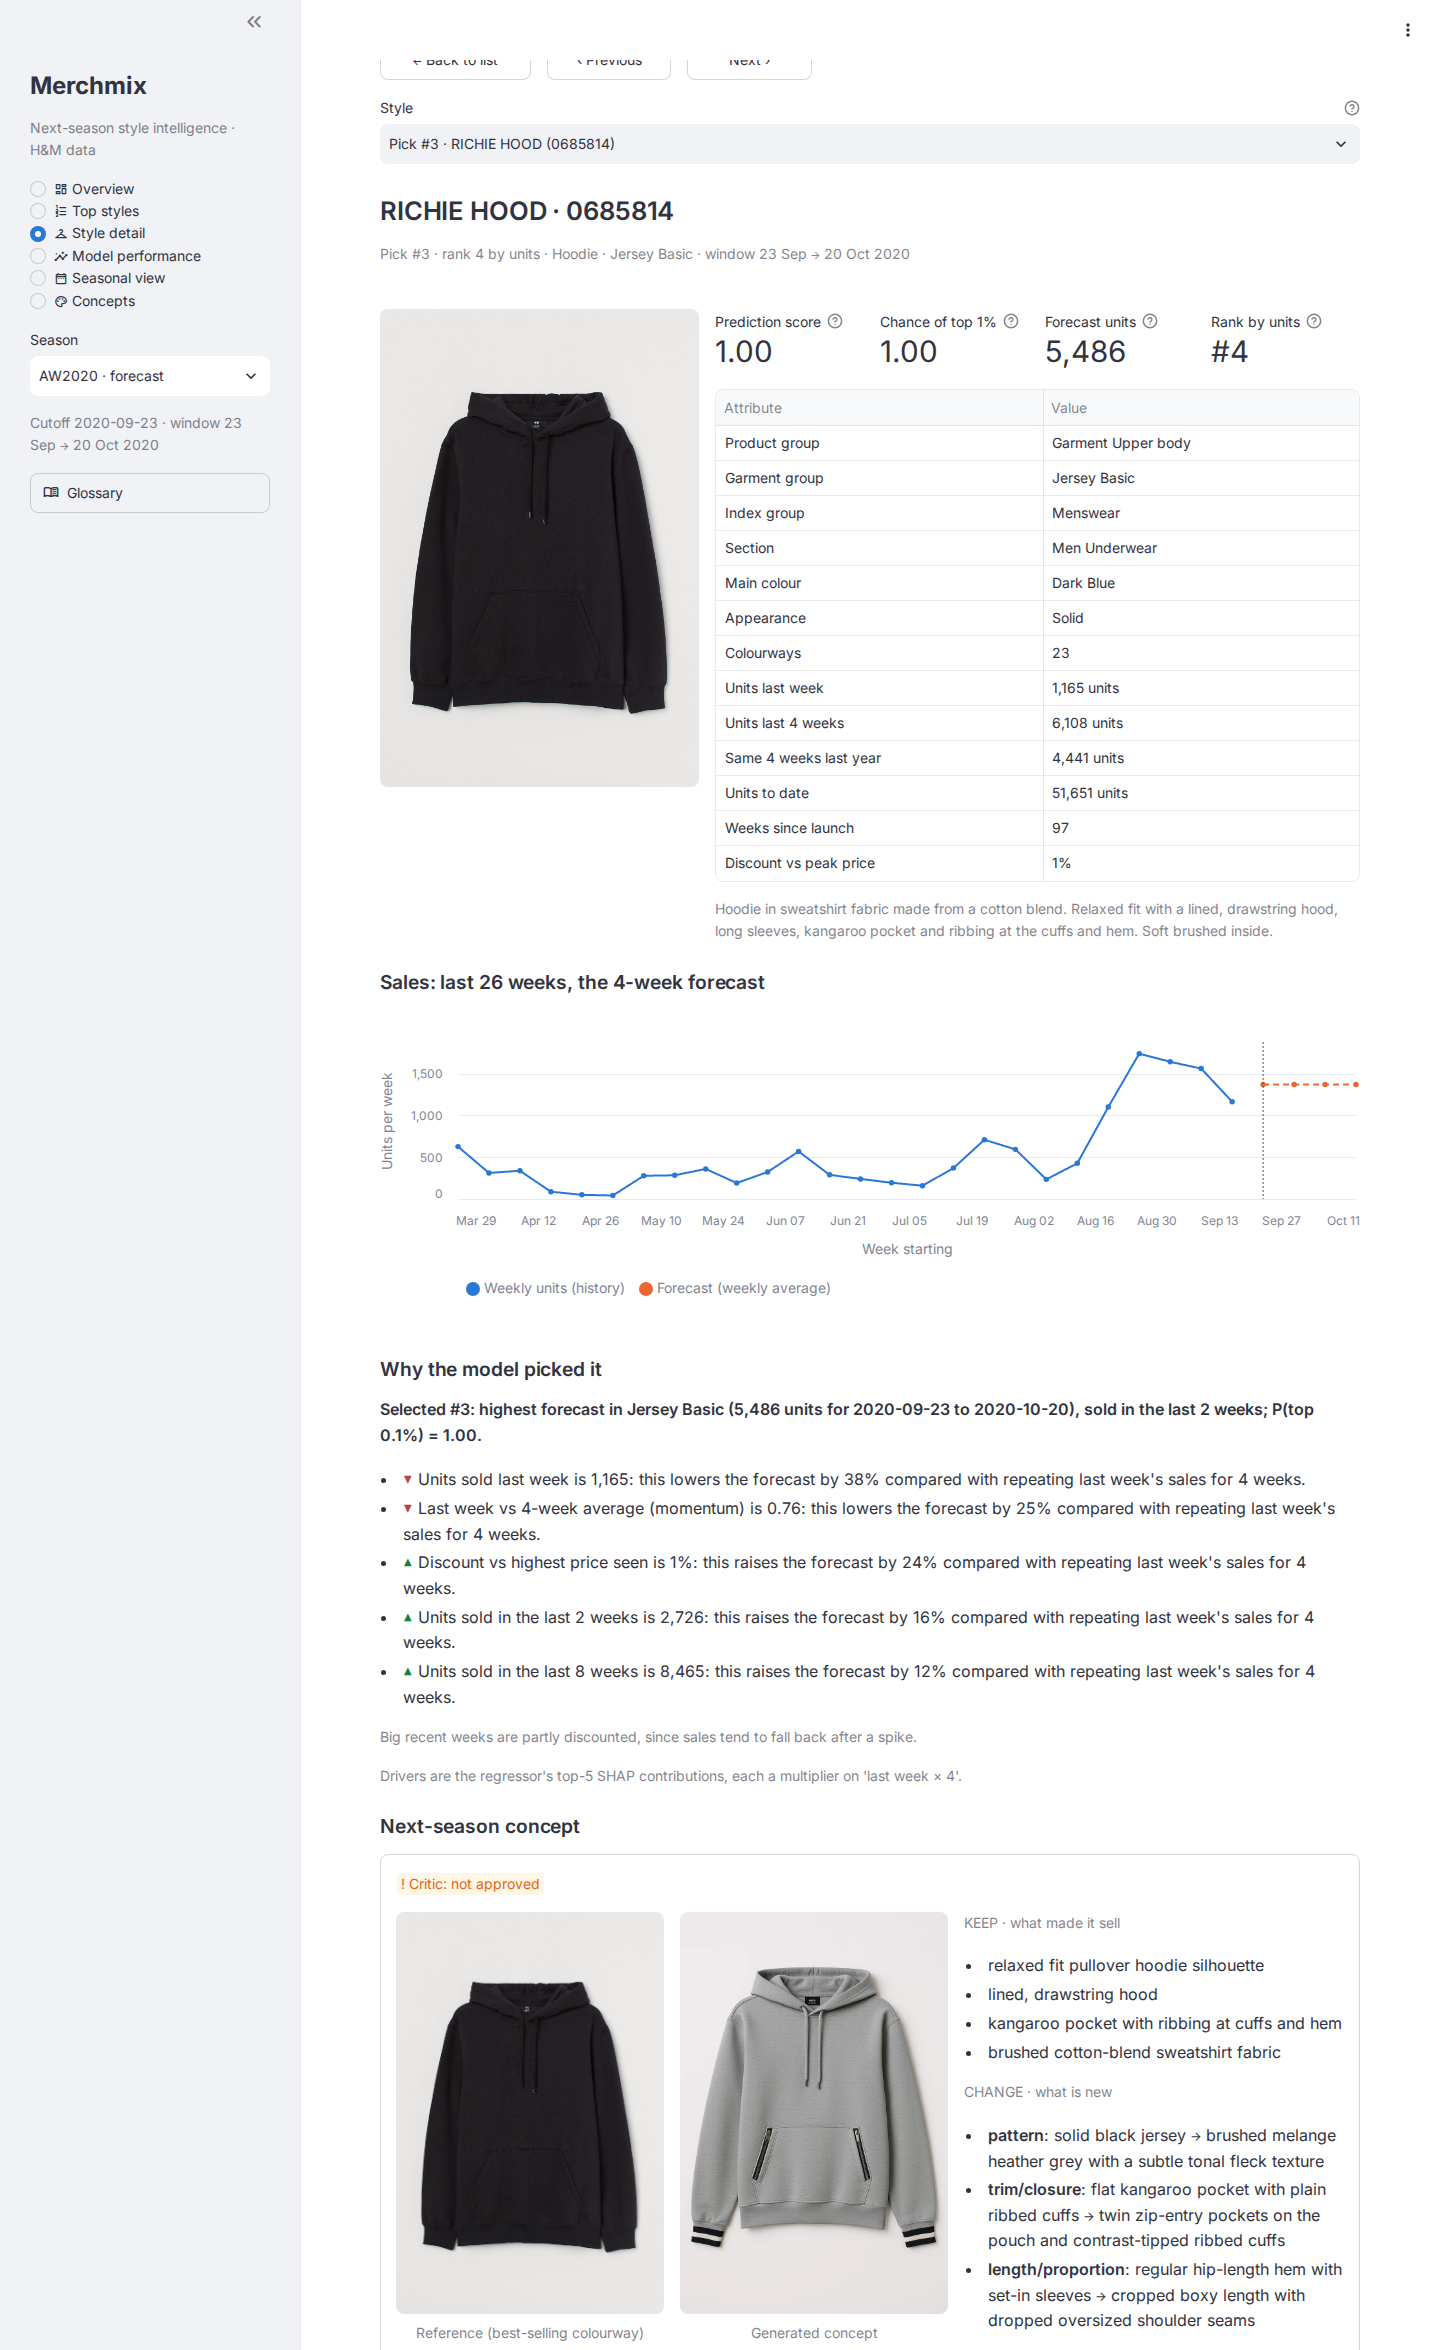
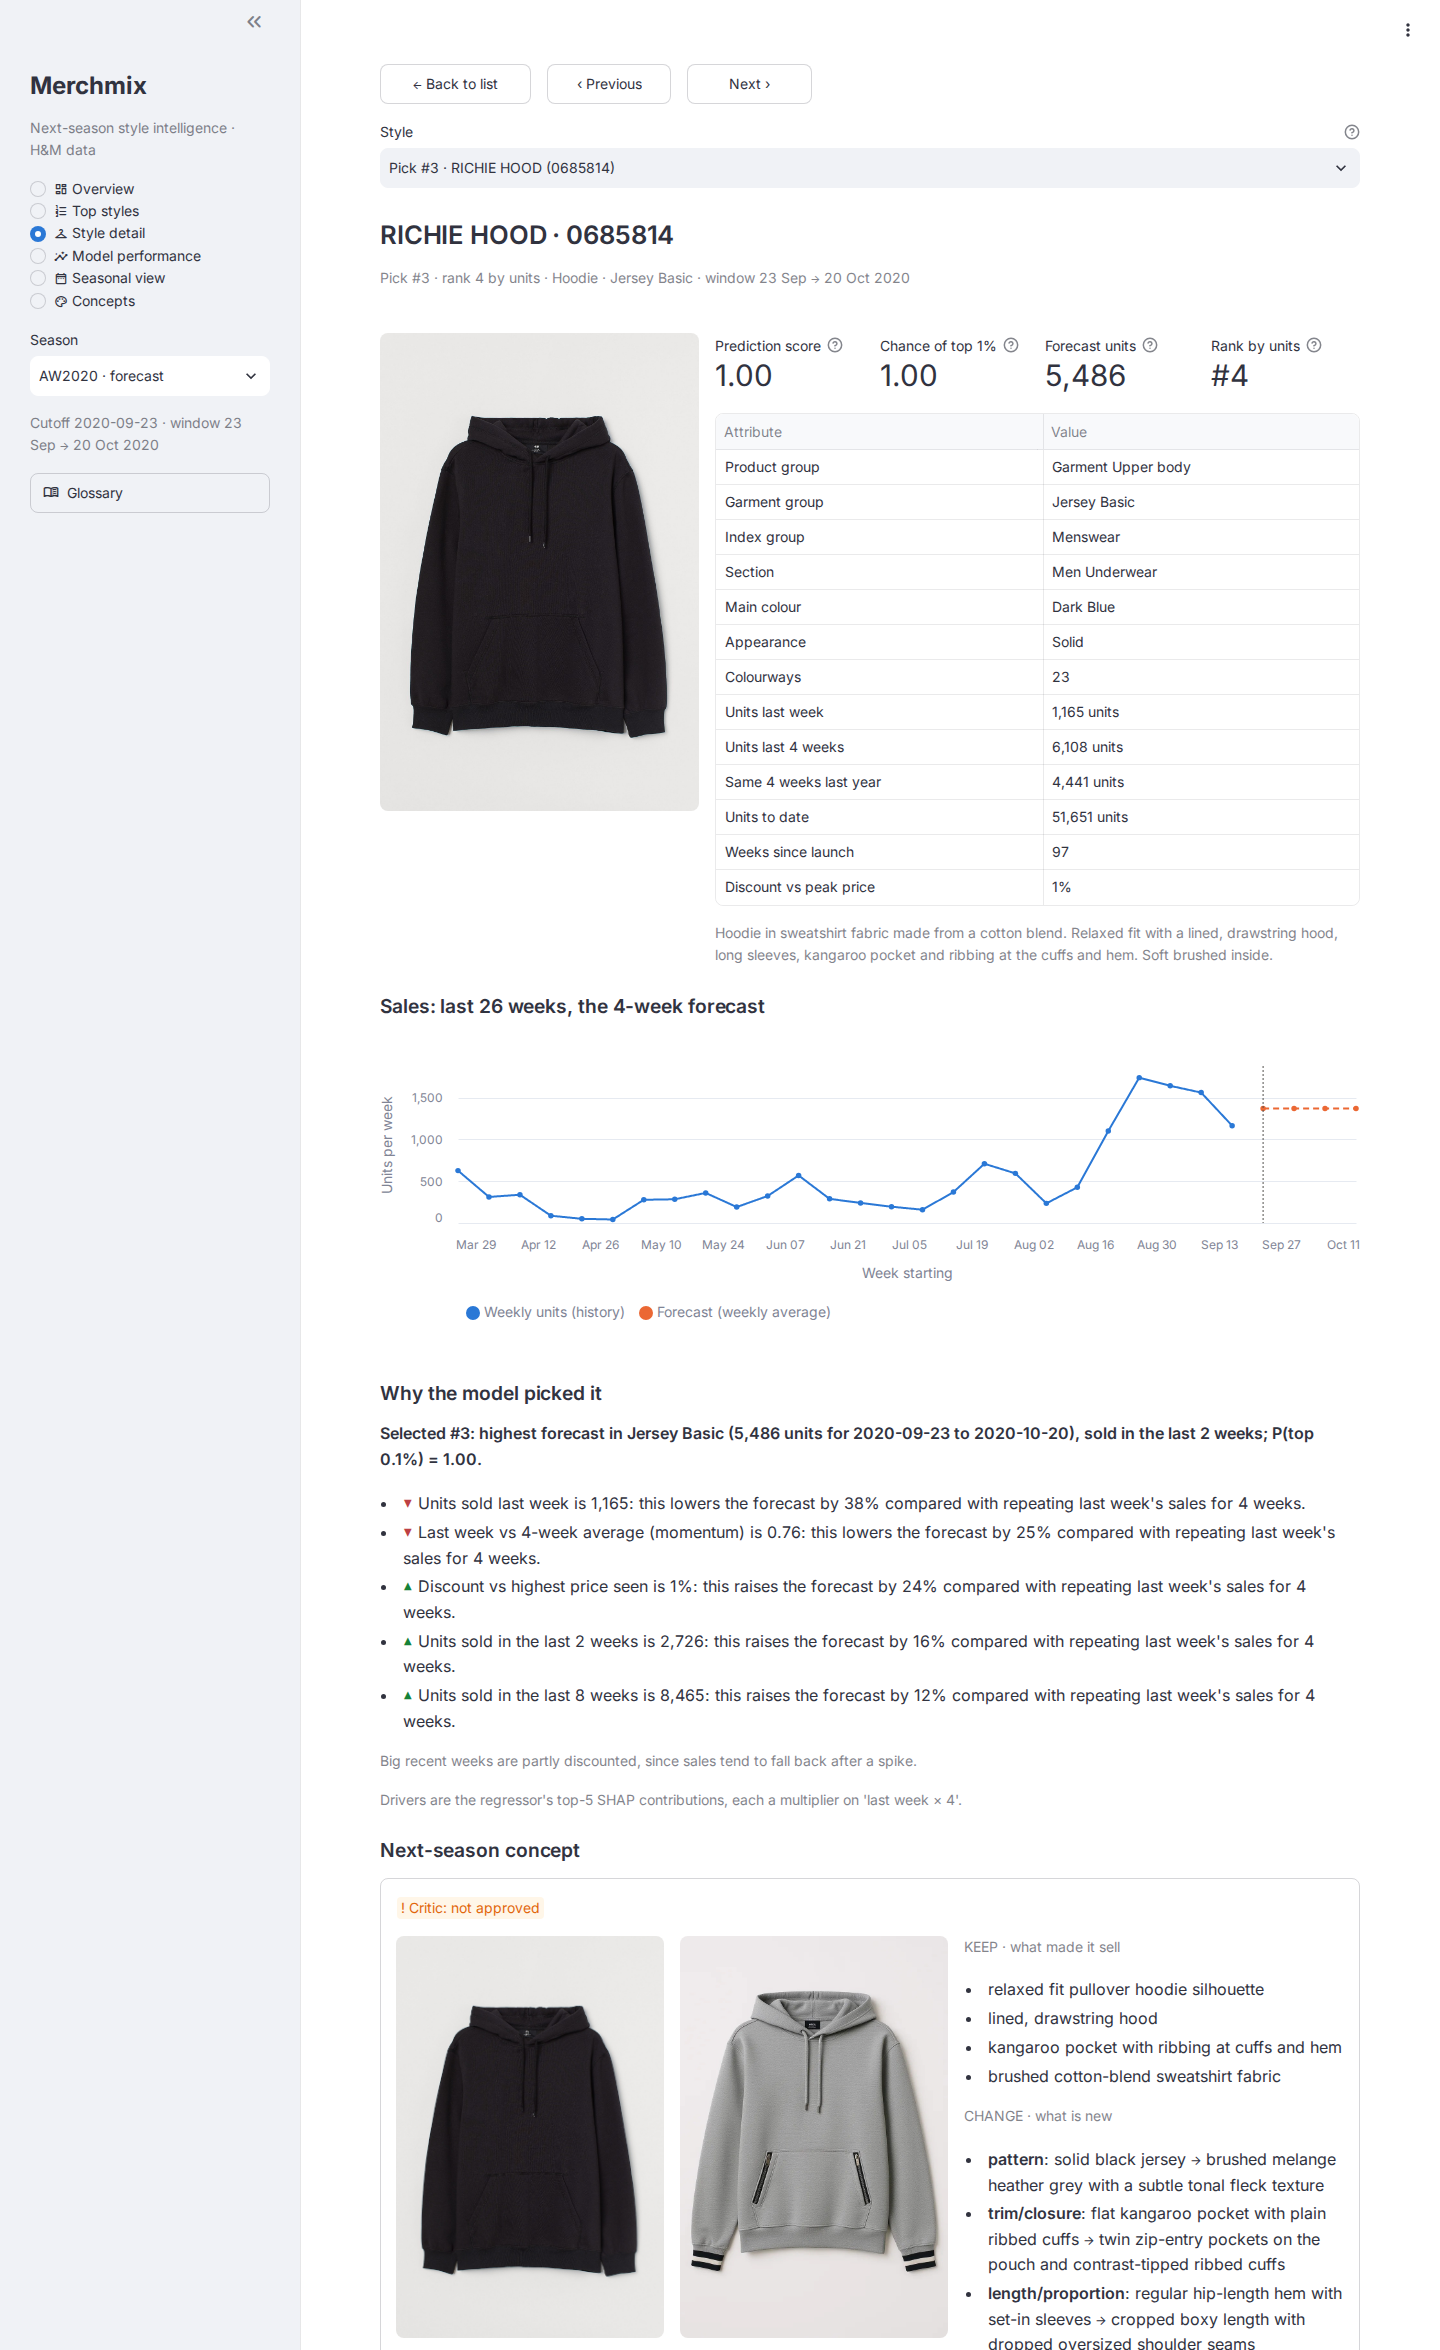
Submission pass: category text, docs consistency, requirements split, hygiene
- Show product type and garment group once when they are equal ("Trousers", not "Trousers · Trousers")
- README: all 7 screenshots, Overview and Top styles features, API table fields (raw_name, index_group,
  n_styles_scored), dev requirements note; WRITEUP §7 describes the current API and app; PDF rebuilt (6 pages)
- API.md: /styles/top example includes season, season_label, observed; summary fields listed
- requirements.txt adds numpy, scipy, pydantic, altair (imported directly); dev tools in requirements-dev.txt
- submission/ git-ignored; screenshot script resets scroll; content starts below the top bar

diff --git a/frontend/app.py b/frontend/app.py
@@ -44,7 +44,7 @@ GLOSSARY = (
 CSS = """<style>
 section[data-testid="stSidebar"] div[data-testid="stSidebarHeader"] { height: 2.25rem; padding-top: .5rem; }
 section[data-testid="stSidebar"] div[data-testid="stSidebarUserContent"] { padding-top: 0; }
-div.block-container { padding-top: 2.5rem; }
+div.block-container { padding-top: 4rem; }  /* just below the 60px top bar */
 </style>"""
 
 HELP = {
@@ -128,6 +128,12 @@ def pick_label(s: dict) -> str:
     """'Pick #3 · rank 4 by units' for a selected style, 'Rank 5 by units' otherwise."""
     by_units = f"rank {s['forecast_rank']} by units"
     return f"Pick #{s['rank']} · {by_units}" if s["rank"] else by_units[:1].upper() + by_units[1:]
+
+
+def category_text(c: dict) -> str:
+    """'Hoodie · Jersey Basic', or just 'Trousers' when product type and garment group are the same."""
+    parts = [c.get("product_type"), c.get("garment_group")]
+    return " · ".join(dict.fromkeys(p for p in parts if p))
 
 
 def badge(text: str, ok: bool) -> None:
@@ -230,7 +236,7 @@ def page_overview(season: str) -> None:
             with txt:
                 st.caption(pick_label(s))
                 st.markdown(f"**{s['name']}**")
-                st.caption(f"{s['category']['product_type']} · {s['category']['garment_group']}")
+                st.caption(category_text(s["category"]))
                 st.markdown(f"{num(s['forecast_units'])} units · score {score(s['prediction_score'])}")
             if st.button("Open style →", key=f"ov_{s['style_id']}", width="stretch"):
                 open_style(s["style_id"])
@@ -306,7 +312,7 @@ def page_top(season: str) -> None:
             b.metric("Forecast units", num(s["forecast_units"]), help=HELP["units"])
             if head["observed"]:
                 st.caption(f"Actual: {units(s['actual_units'])} (rank {s['actual_rank']:,})")
-            st.caption(f"{s['category']['product_type']} · {s['category']['garment_group']}")
+            st.caption(category_text(s["category"]))
             concept = api(f"/styles/{s['style_id']}", season=season).get("concept")
             if concept:
                 critic_badge(concept)
@@ -434,7 +440,7 @@ def page_detail(season: str) -> None:
             return
         raise
     st.header(f"{d['name']}  ·  {d['style_id']}")
-    st.caption(f"{pick_label(d)} · {d['category']['product_type']} · {d['category']['garment_group']} · "
+    st.caption(f"{pick_label(d)} · {category_text(d['category'])} · "
                f"window {window_text(d['forecast_window'])}")
     st.space("small")  # keeps the image's hover toolbar (expand icon) clear of the subtitle
 

diff --git a/scripts/screenshots.py b/scripts/screenshots.py
@@ -1,6 +1,6 @@
 """Take app screenshots into docs/screenshots/ with headless Chromium (dev only).
 
-  pip install playwright && python -m playwright install chromium   # plus: sudo python -m playwright install-deps chromium
+  pip install -r requirements-dev.txt && python -m playwright install chromium   # plus: sudo python -m playwright install-deps chromium
   python scripts/screenshots.py          # needs the API and Streamlit running (APP_URL, default port 8501)
 """
 import os
@@ -22,6 +22,9 @@ with sync_playwright() as p:
         pg.goto(BASE + path)
         pg.get_by_text(marker).first.wait_for(timeout=60000)
         pg.wait_for_timeout(4000)
+        pg.evaluate("document.querySelectorAll('[data-testid=stMain], [data-testid=stAppScrollToBottomContainer]')"
+                    ".forEach(e => e.scrollTo(0, 0))")  # Streamlit can scroll the main pane while rendering
+        pg.wait_for_timeout(500)
         body = pg.inner_text("body")
         assert not any(w in body for w in ("Traceback", "StreamlitAPIException", "not reachable")), name
         pg.screenshot(path=f"{OUT}/{name}.png")

diff --git a/tests/test_frontend.py b/tests/test_frontend.py
@@ -81,6 +81,7 @@ def test_top_page_renders(api) -> None:
     assert "Pluto RW slacks" in text and "(1)" not in text and "RICHIE HOOD" in text
     assert "Pick #1 · rank 1 by units" in text and "Pick #3 · rank 4 by units" in text
     assert "Critic: not approved" in text  # RICHIE's concept is shown honestly
+    assert "Trousers · Trousers" not in text and "Hoodie · Jersey Basic" in text
     assert ("so Jade HW Skinny Denim TRS (#2 by units) is skipped because Trousers is already covered by "
             "Pluto RW slacks.") in text
     table = at.dataframe[0].value

diff --git a/scripts/build_writeup_pdf.py b/scripts/build_writeup_pdf.py
@@ -1,6 +1,6 @@
 """Render WRITEUP.md to WRITEUP.pdf (images and the Mermaid diagram included) with headless Chromium.
 
-  pip install markdown playwright && python -m playwright install chromium   # dev-only tools
+  pip install -r requirements-dev.txt && python -m playwright install chromium   # dev-only tools
   python scripts/build_writeup_pdf.py
 """
 from __future__ import annotations

diff --git a/README.md b/README.md
@@ -26,9 +26,15 @@ must have sold in the last 2 weeks. `prediction_score` = calibrated probability 
 
 ![Three predicted winners and their next-season concepts](outputs/generated_concepts.png)
 
-| Overview | Top styles | Style detail | Seasonal view |
+| Overview | Top styles | Style detail | SS2020 detail (with actuals) |
 |---|---|---|---|
-| ![Overview page](docs/screenshots/overview.png) | ![Top styles page](docs/screenshots/top_styles.png) | ![Style detail page](docs/screenshots/style_detail.png) | ![Seasonal view page](docs/screenshots/seasonal_view.png) |
+| ![Overview page](docs/screenshots/overview.png) | ![Top styles page](docs/screenshots/top_styles.png) | ![Style detail page](docs/screenshots/style_detail.png) | ![SS2020 style detail page](docs/screenshots/style_detail_ss2020.png) |
+| **Model performance** | **Seasonal view** | **Concepts** | |
+| ![Model performance page](docs/screenshots/model_performance.png) | ![Seasonal view page](docs/screenshots/seasonal_view.png) | ![Concepts page](docs/screenshots/concepts.png) | |
+
+- **Overview** (landing page): KPIs, the 3 picks, a "How to read this" box and links to every page.
+- **Top styles**: search by name or style id, filter by index group / product type / garment group, sort by units or
+  score, and download the filtered table as CSV; click a row for the detail page.
 
 Why each style was picked, with SHAP drivers and the concept lineage: [`outputs/evidence_sheet.png`](outputs/evidence_sheet.png).
 
@@ -69,7 +75,7 @@ calibrated probability. Sources: [`eval_table.md`](outputs/figures/eval_table.md
 | Concepts + linking explanation | [`generated_concepts.png`](outputs/generated_concepts.png), [`evidence_sheet.png`](outputs/evidence_sheet.png), [WRITEUP §6](WRITEUP.md#6-concepts-and-how-each-links-to-its-prediction) |
 | Stock limitation + extra data | [WRITEUP §8](WRITEUP.md#8-limitations), Model performance page |
 | Backend endpoints + 404 | [`backend/`](backend/), [API.md](API.md), [`test_api.py`](tests/test_api.py) |
-| Frontend list / detail | [`frontend/app.py`](frontend/app.py), [screenshots](docs/screenshots/) |
+| Frontend list / detail | [`frontend/app.py`](frontend/app.py) (Overview, Top styles, Style detail, Model performance, Seasonal view, Concepts), [screenshots](docs/screenshots/) |
 | End-to-end flow | diagram above, [WRITEUP §7](WRITEUP.md#7-architecture) |
 | Training / prediction pipeline | [`train.py`](data_science/train.py), [`predict.py`](data_science/predict.py) |
 | API documentation | [API.md](API.md), `/docs` on the running API |
@@ -101,6 +107,8 @@ export HM_DATA_DIR=$(realpath ../hm-data/data)
 API_URL=http://localhost:8000 .venv/bin/streamlit run frontend/app.py --server.address 0.0.0.0 --server.port 8501
 
 .venv/bin/python -m pytest -q                             # data-dependent tests skip without the data
+
+# Dev-only (screenshots, WRITEUP.pdf): requirements-dev.txt + python -m playwright install chromium
 ```
 
 The API and app run from the committed `outputs/` alone, so no data download is needed to try them. Without the
@@ -112,7 +120,7 @@ also retrains the regressor (this rewrites the published evaluation files).
 
 | Method | Path | Returns |
 |---|---|---|
-| GET | `/styles/top?limit=10&offset=0&season=AW2020` | ranked styles: scores, category, 8-week sales, photo URL |
+| GET | `/styles/top?limit=10&offset=0&season=AW2020` | ranked styles: name (+ `raw_name`), scores, category (incl. `index_group`), 8-week sales, photo URL; `n_styles_scored` |
 | GET | `/styles/{style_id}?season=AW2020` | product info, scores, SHAP reasons, 26-week history, concept (404 if unknown) |
 | GET | `/seasons` | AW2020 (forecast) and SS2020 (backtest with actuals) |
 | GET | `/model/summary` | model vs baselines, calibration, definitions |

diff --git a/WRITEUP.md b/WRITEUP.md
@@ -170,10 +170,13 @@ flowchart TD
   Nothing in the API retrains.
 - **backend/:** `model_service.py` loads the predictions once and has no web code; `api.py` handles HTTP only
   (validation, 404/422 JSON, CORS, images); `schemas.py` holds the Pydantic models.
-  - Endpoints: `/styles/top`, `/styles/{id}`, `/seasons`, `/model/summary`, `/health`, `/images`.
-- **frontend/:** Streamlit, talking only to the API; images are fetched server-side.
-  - Pages: overview (KPIs, the 3 picks, how to read the scores), top styles (search, filters, CSV download), style
-    detail (chart, reasons, concept, previous/next), model performance, seasonal view, concepts.
+  - Endpoints: `/styles/top`, `/styles/{id}`, `/seasons`, `/model/summary`, `/health`, `/images`. Display names
+    drop the copy number (`raw_name` keeps it); both `/styles` endpoints take `?season=AW2020|SS2020`.
+- **frontend/:** Streamlit, talking only to the API; images are fetched server-side. Light and dark theme, a sidebar
+  glossary and tooltips on every metric.
+  - Pages: overview (KPIs, the 3 picks, how to read the scores), top styles (search, filters, sort, CSV download),
+    style detail (chart, reasons, concept, previous/next; actuals for SS2020), model performance (tiles, charts vs
+    baselines, exact tables), seasonal view, concepts.
 - **Agentic layer (bonus):** a Claude Agent SDK orchestrator with 4 sub-agents, 3 MCP servers (`retail`,
   `forecast`, `image`) and the `style-dna-brief` skill.
   - Guard-rails are in code: a permission gate (writes only under `outputs/`), an image budget (≤ 4 new images,

diff --git a/API.md b/API.md
@@ -95,6 +95,9 @@ Abridged:
                "ss2020_top10_hits": 7}
 }
 ```
+Also present (omitted above): `regressor.validation_cutoff`, `backtest_cutoffs`, validation rows with `wape_top500`;
+per classifier `backtest_cutoffs`, `winners_per_cutoff`, `pr_auc_wins_vs_last_week_x4` and calibration
+`brier_raw`/`brier_calibrated`, `validation_ece_raw`/`validation_ece_calibrated`, `basis`; `seasonal.columns`.
 Every number comes from `outputs/figures/eval_table.md`, `outputs/figures/seasonal_comparison.md` and
 `outputs/classifier/per_cutoff*.csv`.
 
@@ -107,6 +110,7 @@ curl "localhost:8000/styles/top?limit=2"
 ```
 ```json
 {
+  "season": "AW2020", "season_label": "Autumn/Winter 2020 (forecast)", "observed": false,
   "cutoff": "2020-09-23",
   "forecast_window": {"start": "2020-09-23", "end": "2020-10-20"},
   "total": 200, "n_styles_scored": 20318, "limit": 2, "offset": 0,
